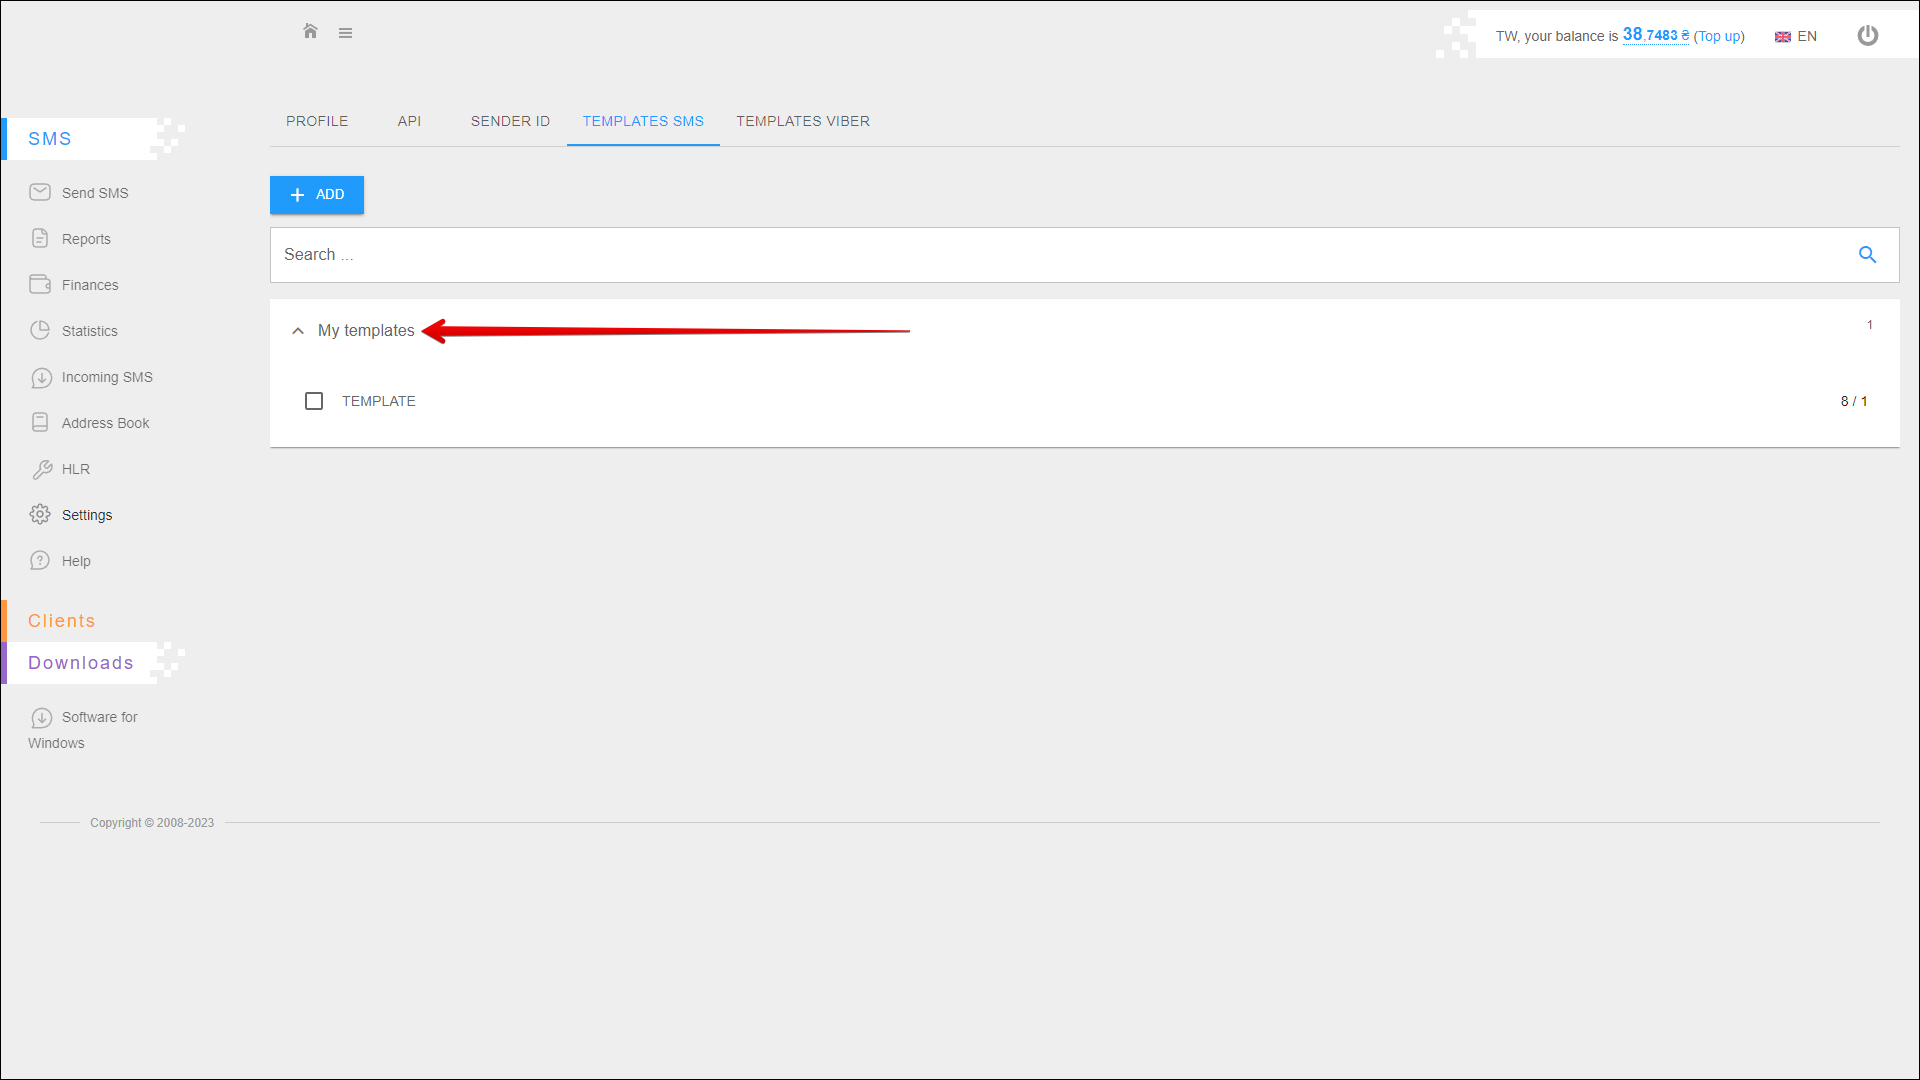
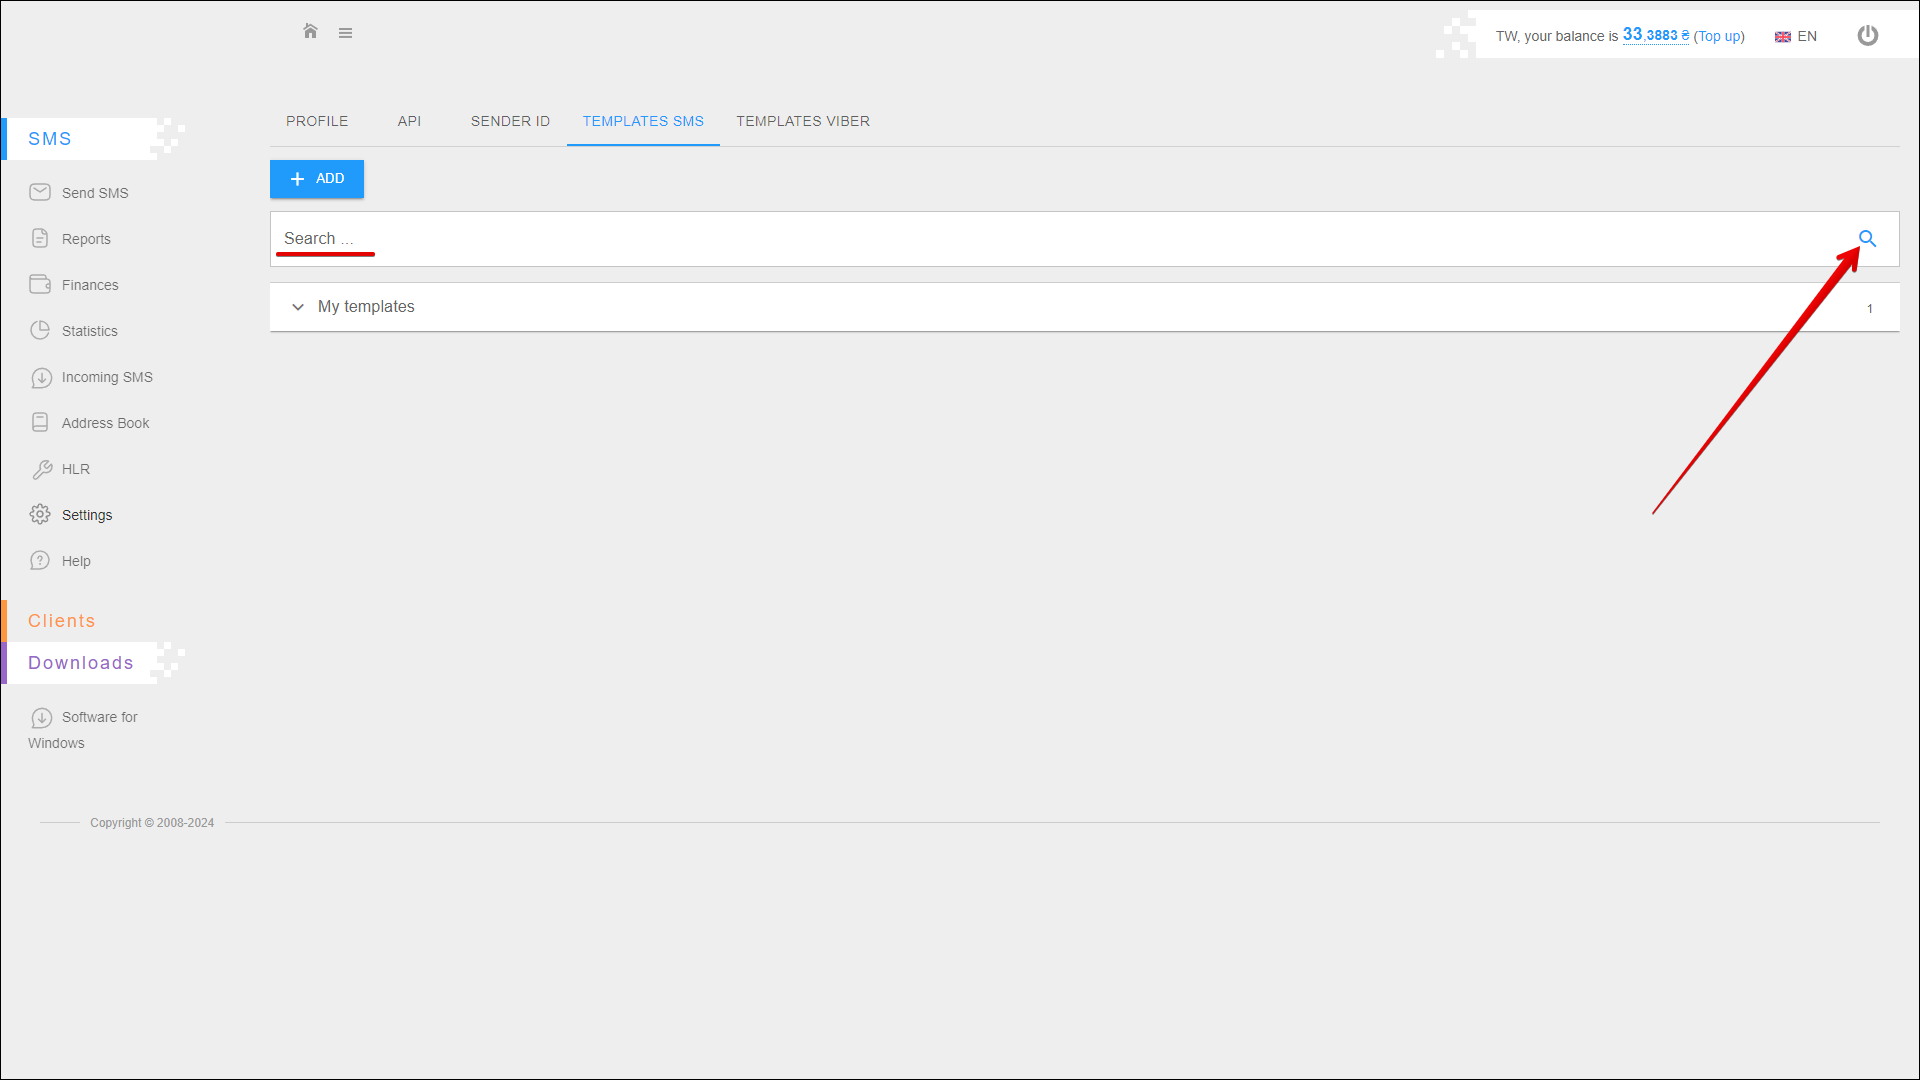
+ SMS/Settings/Templates Viber (WIP)

diff --git a/sidebars.js b/sidebars.js
@@ -58,14 +58,14 @@ let instruction_list = [
           'instruction/sms/statistics/countries'
         ]
       },
-      {
-        type: 'category',
-        label: 'Incoming SMS',
-        items: [
-          'instruction/sms/incoming_sms/received_sms',
-          'instruction/sms/incoming_sms/tariffs'
-        ]
-      },
+      // {
+      //   type: 'category',
+      //   label: 'Incoming SMS',
+      //   items: [
+      //     'instruction/sms/incoming_sms/received_sms',
+      //     'instruction/sms/incoming_sms/tariffs'
+      //   ]
+      // },
       {
         type: 'category',
         label: 'Address Book',

diff --git a/docs/instruction/sms/settings/templates_viber.md b/docs/instruction/sms/settings/templates_viber.md
@@ -1,9 +1,73 @@
 ---
 id: templates_viber
-title: Templates Viber
+title: Templates Viber (WIP)
 slug: /templates_viber
 ---
 
 This tab is intended for adding new Viber message templates, as well as for editing and deleting existing templates.
 
 To open this tab, select **SMS** → **Settings** in the side menu and select **TEMPLATES VIBER** tab.
+
+![image1](/img/en/sms_settings_templates_viber/image1.png)
+
+## Adding a new template
+
+To add a new template, click the **+ ADD** button in the upper left corner of the page.
+
+![image2](/img/en/sms_settings_templates_viber/image2.png)
+
+Then follow the steps below:
+
+|  №  | Action |
+| :-: | ------ |
+| 1 | Select **Sender ID** from the list |
+
+Press **EXECUTE** to create a template.
+
+![image3](/img/en/sms_settings_templates_viber/image3.png)
+
+## Filter
+
+The **Status** filter is located at the top of the page. With this filter you can display in the table templates with required statuses only.
+
+![image4](/img/en/sms_settings_templates_viber/image4.png)
+
+Available template statuses:
+
+* **New**
+* **Submitted**
+* **Resubmitted**
+* **Rejected**
+* **Removed**
+* **Approved**
+
+## Template search
+
+In this tab, you can search for a template by **Sender ID** and **Template Name**.
+
+To search for a template, enter **Sender ID** [1] or **Template Name** [2] in the appropriate search field and press the **Search** button icon or the **[ ENTER ]** key.
+
+![image5](/img/en/sms_settings_templates_viber/image5.png)
+
+## Template table
+
+The data is arranged in separate columns:
+
+![image6](/img/en/sms_settings_templates_viber/image6.png)
+
+|  №  | Column | Description |
+| :-: | ------ | ----------- |
+| 1 | **Sender ID** | Sender's name (Sender ID) |
+| 2 | **Status** | Current status of the template: <li>**New**</li><li>**Submitted**</li><li>**Resubmitted**</li><li>**Rejected**</li><li>**Removed**</li><li>**Approved**</li> |
+| 3 | **Template** | Message text |
+| 4 | **Price** | Cost of sending a message with this template |
+
+## Deleting template
+
+To delete a template, check the checkbox next to the desired template and click the **Delete** button icon at the top right of the table.
+
+![image7](/img/en/sms_settings_templates_viber/image7.png)
+
+To select all template check the checkbox in the table header.
+
+![image8](/img/en/sms_settings_templates_viber/image8.png)

diff --git a/docs/instruction/sms/settings/templates_sms.md b/docs/instruction/sms/settings/templates_sms.md
@@ -34,14 +34,20 @@ You can also switch the message text from cyrillic to latin and vice versa using
 
 ![image6](/img/en/sms_settings_templates_sms/image6.png)
 
+## Template search
+
+To find the required template, enter its name in the **Search field** and press the **Search** button icon or the **[ ENTER ]** button.
+
+![image7](/img/en/sms_settings_templates_sms/image7.png)
+
 ## Template list
 
 All added templates are displayed in the **My templates** list.
 
-![image7](/img/en/sms_settings_templates_sms/image7.png)
+![image8](/img/en/sms_settings_templates_sms/image8.png)
 
 ## Deleting template
 
 To delete a template, check the checkbox next to the desired template and click the **Delete** button icon at the top right of the table.
 
-![image8](/img/en/sms_settings_templates_sms/image8.png)
+![image9](/img/en/sms_settings_templates_sms/image9.png)
